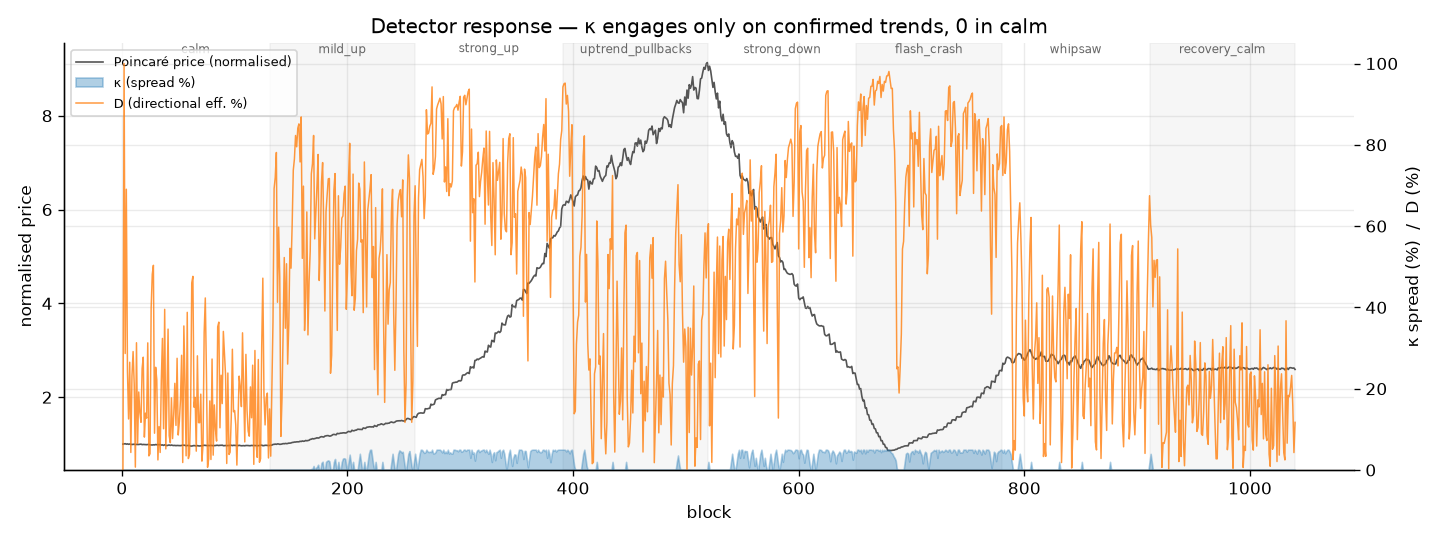
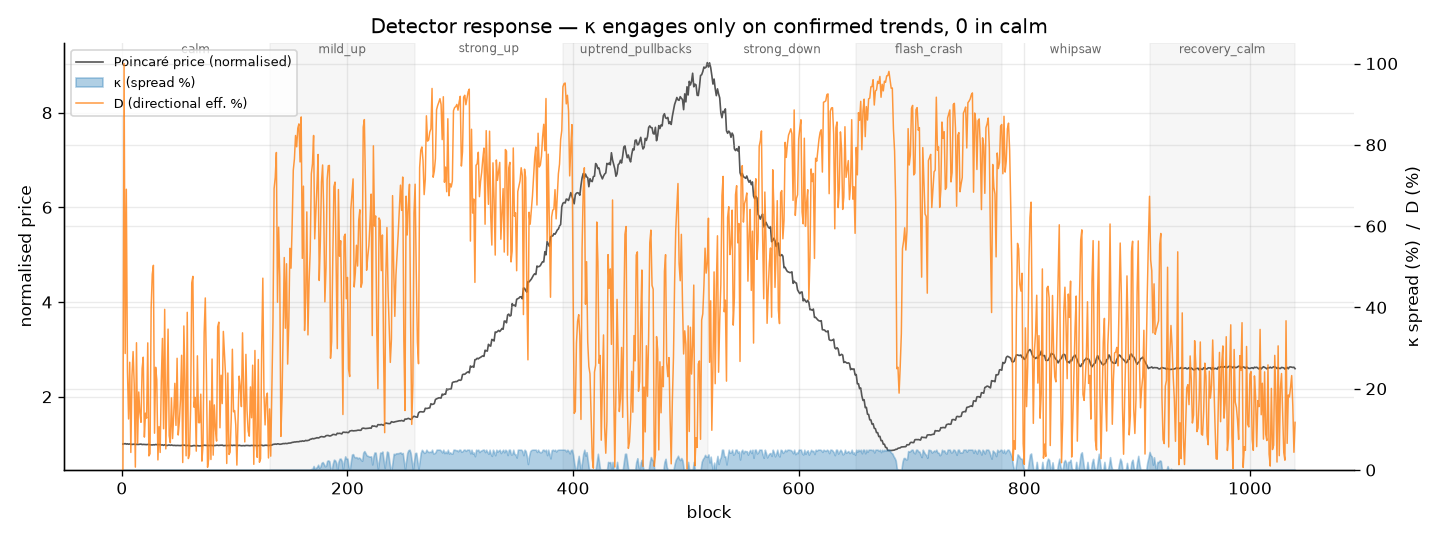
data: re-run the fork studies on the deployed gate, and re-tune the baseline
Sections 9 and 9.1 were describing a detector the deployment does not have.
Both fork sims gated at roughly twice the deployed setting: ForkRealData at
dFloor 0.55 with lambda 0.85 is r = 1.42, ForkSimulation at 0.60 with lambda 0.80
is r = 1.34, against the hook's r = 0.79. kappa_max already matched at 0.05 in
both, so the gate was the whole discrepancy. Restated at each sim's own lambda
that is dFloor 0.306 and 0.353.

THE SYNTHETIC STUDY ROUGHLY DOUBLED. Mean LVR reduction across five independent
seeds goes 22.9% -> 50.6%, range 47.1% to 53.2%. That is a real effect and also a
flattering one: these are designed trend regimes, so a detector that engages
sooner spends much more of the run leaning. The README now says so next to the
number rather than leaving a reader to assume it generalises.

THE REAL-DATA STUDY IS THE INTERESTING ONE, because it moved against us on one
metric and had to be re-tuned to stay honest on the other.

Lowering the gate raised Poincare's cost to uninformed flow from 3,521 to 4,535,
which broke the equal-friction condition section 9.1 rests on: the vol-fee
baseline was suddenly 22% cheaper. Run in that state Poincare "wins" the LVR
column 4.67% against 4.41%, and that result is worthless, because the baseline
was handicapped rather than matched. FEE_GAMMA re-tuned 0.0441 -> 0.0568 by the
measured ratio.

Matched properly (4,535 against 4,529, 0.13% apart):

                        LVR vs control      LP advantage
[…]

diff --git a/README.md b/README.md
@@ -389,14 +389,22 @@ stress regimes** (calm, trends, a flash crash, whipsaw) over **1,040 blocks / 3,
 
 | metric | POINCARÉ | CONTROL | result |
 |---|---:|---:|---|
-| Cumulative LVR (arbitrageur extraction) | 155,443 USDC | 221,227 USDC | **−29.7%** |
-| **LP value retained** (marked at fair) | **10,186,959 USDC** | 9,685,443 USDC | **+$501,516** |
+| Cumulative LVR (arbitrageur extraction) | 103,490 USDC | 221,227 USDC | **−53.2%** |
+| **LP value retained** (marked at fair) | **10,340,969 USDC** | 9,685,443 USDC | **+$655,526** |
 
 That row is one seed. Re-running the whole schedule on **5 independent seeds** (fresh market,
-fresh order book, fresh pools each time) gives **19.3% - 29.7%, mean 22.9%**, with every path
+fresh order book, fresh pools each time) gives **47.1% - 53.2%, mean 50.6%**, with every path
 showing a reduction - asserted, not just averaged, in
-`test_multiSeed_poincareNeverTrailsControl`. **22.9% is the number to quote**; the 29.7% above
+`test_multiSeed_poincareNeverTrailsControl`. **50.6% is the number to quote**; the 53.2% above
 is the top of the range.
+
+> These figures roughly **doubled** when the gate was recalibrated (mean 22.9% → 50.6%). That
+> is the same `dFloor` change described in [§9.4](#94-why-the-configuration-changed-and-what-it-was-read-against),
+> and the size of the jump is a fair reflection of what a synthetic path rewards: these are
+> *designed* trend regimes, so a detector that engages sooner spends much more of the run
+> leaning. Real months are mostly reversal, which is why [§9.1](#91-against-real-market-data-12-months-of-ethusdc)
+> below moves far less. **Treat the real-data number as the honest one** and this as an upper
+> bound on a market built to suit the mechanism.
 
 The LP-value advantage is **flat in calm** (the detector correctly does not engage, nothing to
 protect), **grows through the trends**, and **jumps during the flash-crash + whipsaw**, where Poincaré
@@ -430,31 +438,40 @@ Two things make this study harsher than the synthetic one:
 
 | metric | POINCARÉ | CONTROL | VOLFEE (matched) |
 |---|---:|---:|---:|
-| Cumulative LVR | 314,124 | 328,143 | 313,664 |
-| LVR vs control | −4.27% | — | **−4.41%** |
-| Cost to uninformed flow | 3,521 | 0 | 3,521 |
-| LP value advantage | **+23,706** | — | +18,184 |
-| LP value per unit of trader cost | **6.73** | — | 5.17 |
+| Cumulative LVR | 312,792 | 328,143 | 309,545 |
+| LVR vs control | −4.67% | — | **−5.66%** |
+| Cost to uninformed flow | 4,535 | 0 | 4,529 |
+| LP value advantage | **+34,032** | — | +23,401 |
+| LP value per unit of trader cost | **7.51** | — | 5.17 |
 
 **The two metrics point different ways, and both are reported.** On raw LVR reduction the
-symmetric fee edges Poincaré, 4.41% against 4.27%. On **LP value retained**, which is the ground
-truth the harness marks at fair, Poincaré leads by about 30%: +23,706 against +18,184, for an
-identical 3,521 of trader cost (matched to 0.01%). A symmetric fee collects on every block from
-everyone, and Poincaré collects only from the flow that is taking money out of LPs, which is why
-it converts a given friction budget into more retained LP value while reducing slightly less
-measured LVR.
+symmetric fee beats Poincaré, 5.66% against 4.67%. On **LP value retained**, which is the ground
+truth the harness marks at fair, Poincaré leads by 45%: +34,032 against +23,401, for an identical
+friction budget (4,535 against 4,529, matched to 0.13%). A symmetric fee collects on every block
+from everyone, and Poincaré collects only from the flow that is taking money out of LPs, which is
+why it converts a given friction budget into more retained LP value while reducing *less* measured
+LVR. Per unit of trader cost the gap is 7.51 against 5.17.
+
+> **Both columns moved when the gate was recalibrated, and the baseline moved more.** At the old
+> gate this read 4.27% against 4.41% with Poincaré 30% ahead on LP value. Lowering `dFloor` to the
+> deployed setting raised Poincaré's LP advantage by 44% (+23,706 → +34,032) — but it also raised
+> Poincaré's friction, so `FEE_GAMMA` had to rise from 0.0441 to 0.0568 to keep the budgets
+> matched, and the better-funded baseline improved its own LVR reduction more (4.41% → 5.66%).
+> Reporting the LVR column without re-tuning that constant would have shown Poincaré winning it,
+> which is the trap [§9.4](#94-why-the-configuration-changed-and-what-it-was-read-against)
+> describes: an unmatched baseline is a handicap, not a baseline.
 
 **By half of the window:**
 
 | half of the window | POINCARÉ vs control | VOLFEE vs control |
 |---|---:|---:|
-| H1, the calibration sample | −4.55% | −4.56% |
-| **H2, out-of-sample** | −3.73% | **−4.11%** |
+| H1, the calibration sample | −5.39% | **−5.86%** |
+| **H2, out-of-sample** | −3.23% | **−5.28%** |
 
-On LVR the baseline holds its edge out-of-sample too, which is a change from the previous window
-and is reported as such. The synthetic stress path in §9 (−22.9% mean over 5 seeds) is trend-dense
-by construction, which is precisely why it flatters the design, and this run remains the honest
-counterweight to it.
+On LVR the baseline holds its edge in both halves, and widens it out-of-sample. The synthetic
+stress path in §9 (−50.6% mean over 5 seeds) is trend-dense by construction, which is precisely
+why it flatters the design, and this run remains the honest counterweight to it: the same gate
+change that doubled the synthetic number moved the real-data LVR column against us.
 
 Two things survive everywhere. **LVR ≤ control throughout** (asserted in the test), so leaning
 against detected trends never costs LPs more than doing nothing. And the qualitative property no
